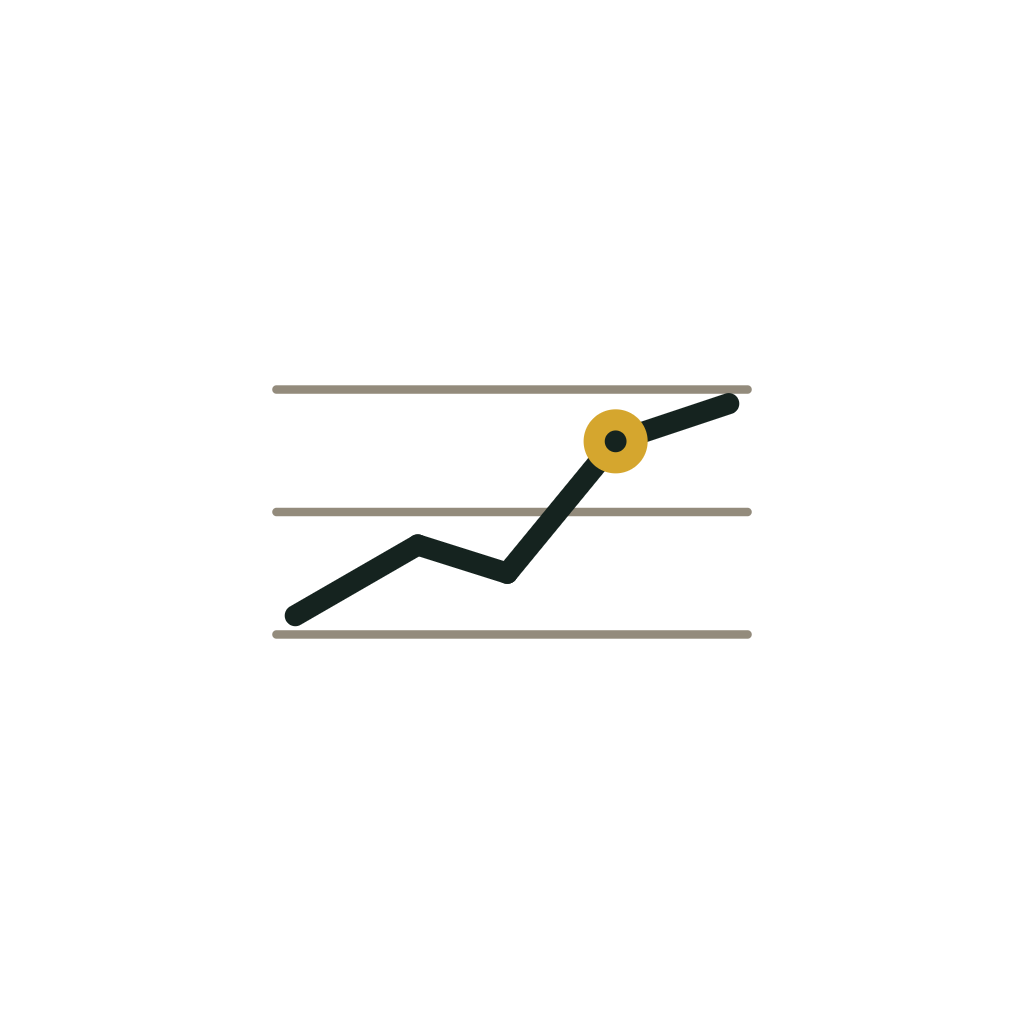
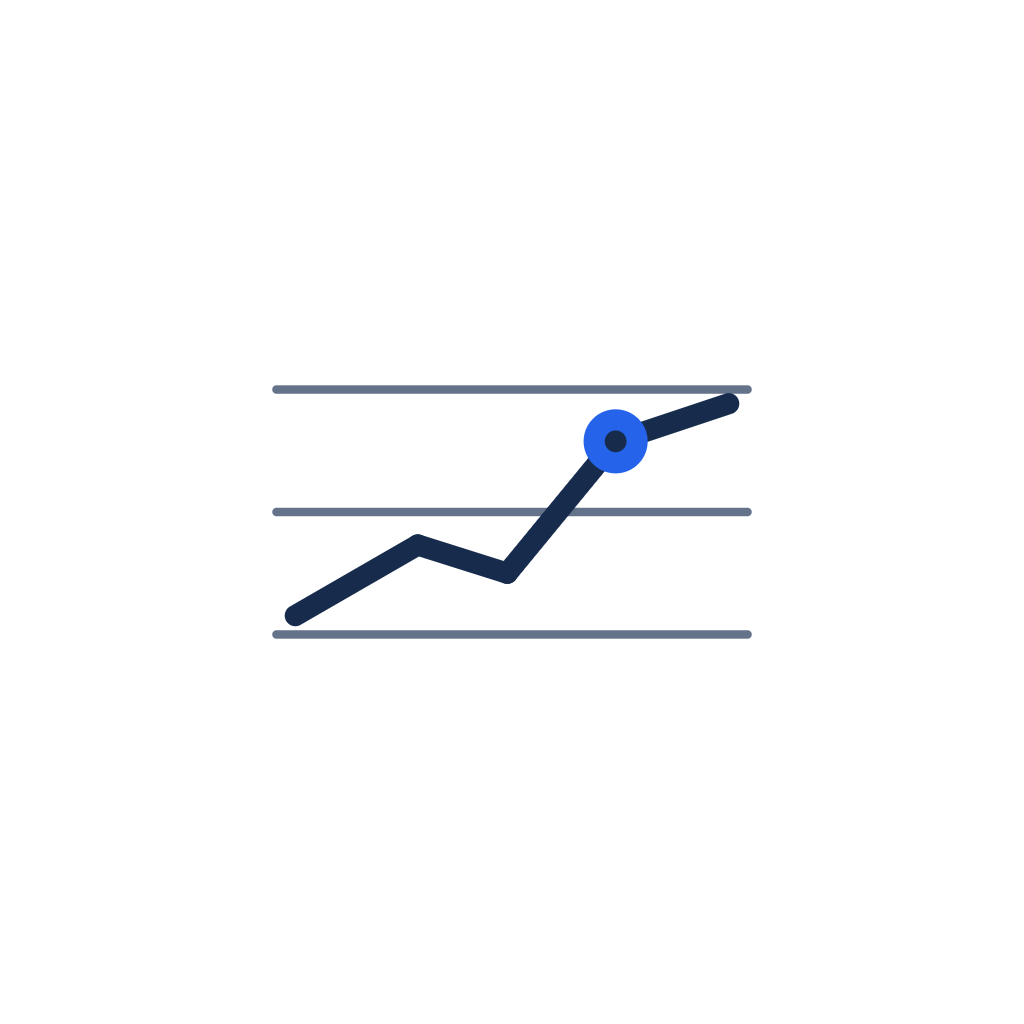
design(android): align launch artwork with the new interface

Changed region(s): [[0.25, 0.375, 0.75, 0.625]]

diff --git a/docs/ANDROID_REDESIGN_ACCEPTANCE.md b/docs/ANDROID_REDESIGN_ACCEPTANCE.md
@@ -43,6 +43,21 @@ Qwen configuration or producer/Pi services to implement this checklist.
    runtime acceptance. Keep physical haptics/device acceptance separately
    labelled if not run. Do not infer public delivery from merge or local build.
 
+### Source identity before and after publication
+
+Pre-merge captures retain their actual commit and APK hash, plus the Metro
+JavaScript commit when using a development client. A recorded `mobile/` Git
+tree comparison may document source equivalence after squash; it does not
+establish identical binaries or public acceptance. Retain the resolved build
+version/configuration too: release automation updates version metadata before
+prebuild.
+
+After publication, keep each APK's acceptance record externally alongside its
+captures, using the immutable public manifest's `source_sha` and independently
+verified artifact identity. Never relabel earlier captures with the merged
+commit or replace their APK hashes. Repeat native acceptance on the downloaded
+bytes as required above; an untested ARM runtime remains outstanding.
+
 ## Portable evidence check
 
 No new dependencies, Android commands, network requests, uploads or file writes
